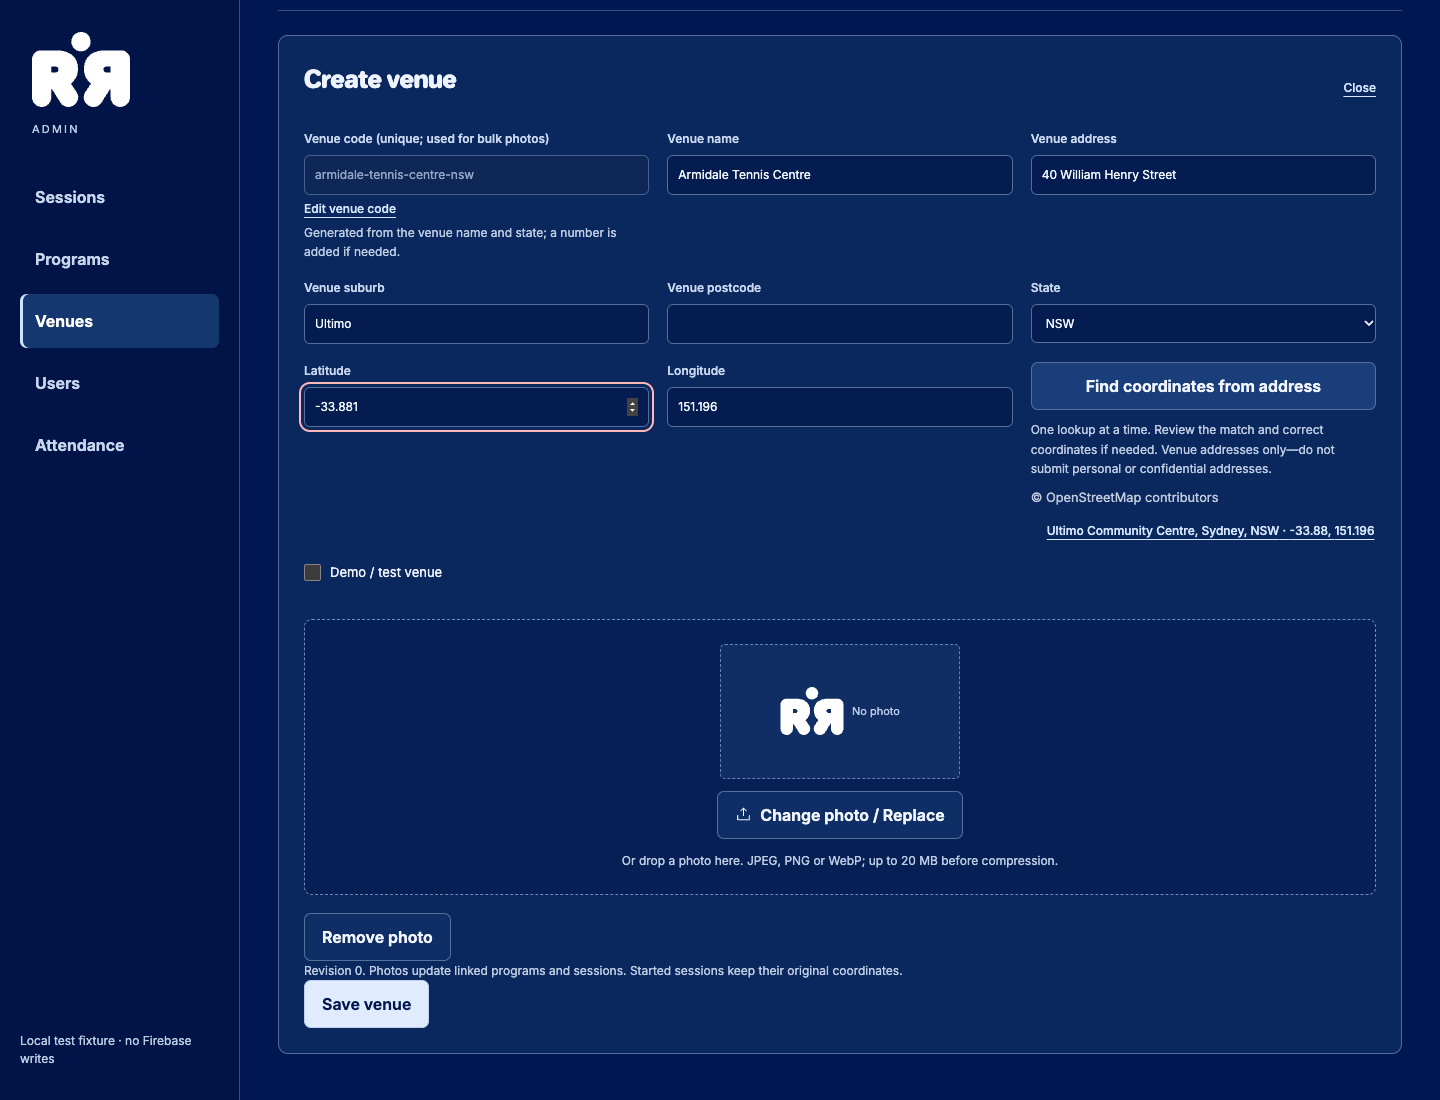
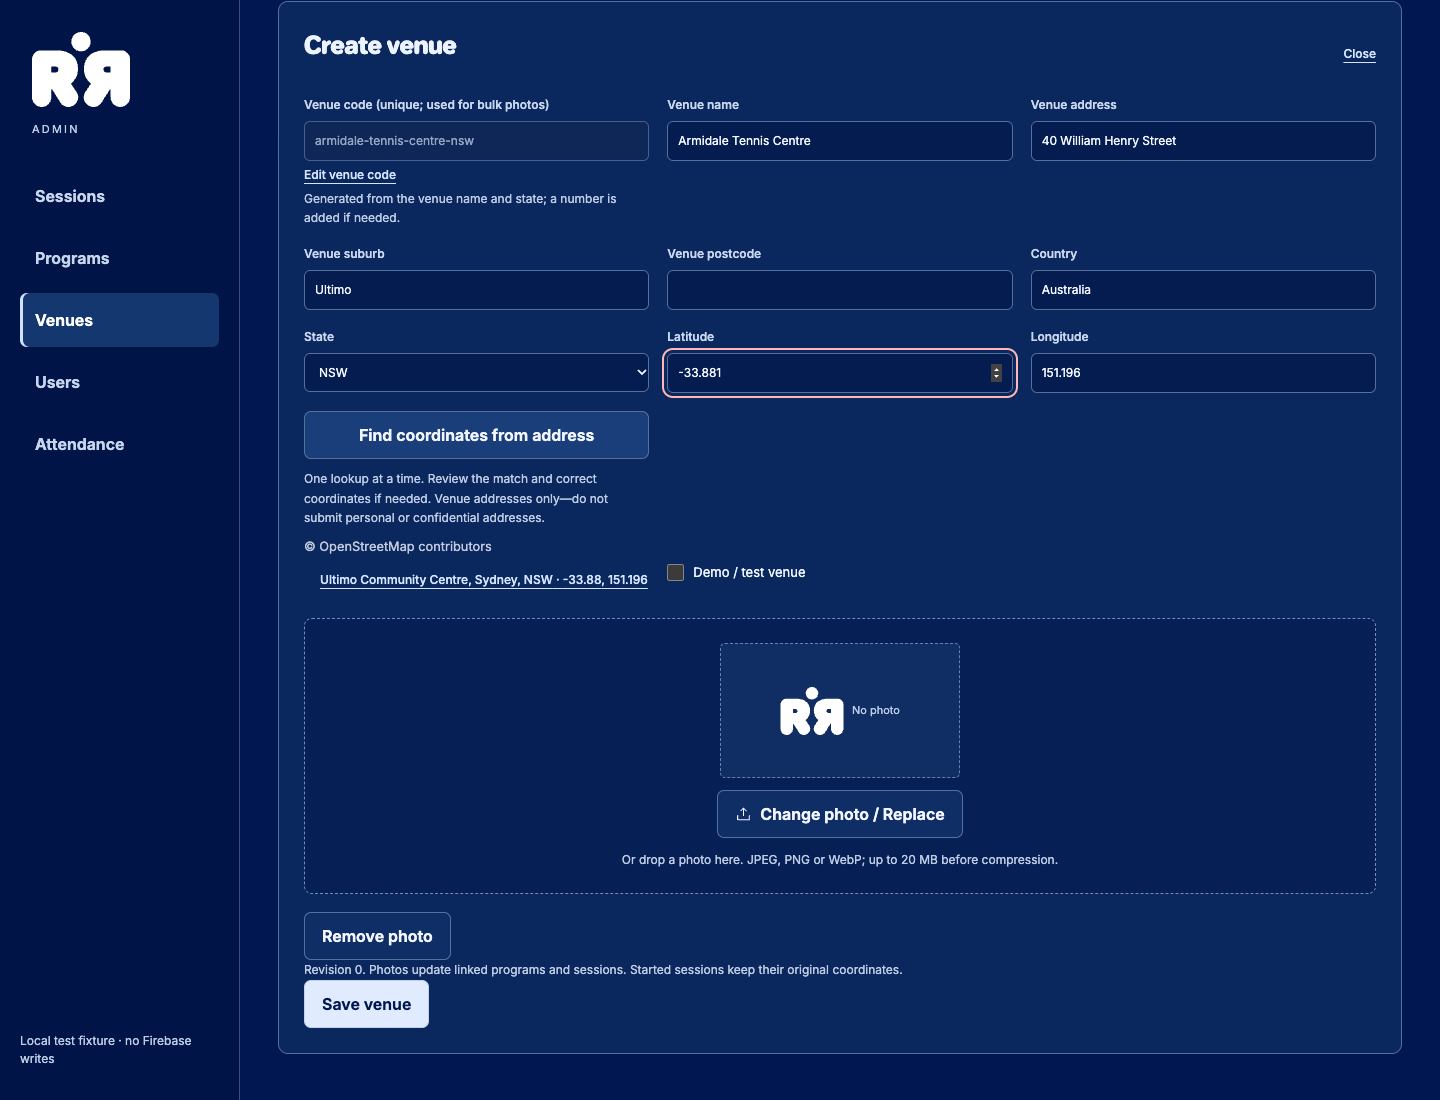
Allow international venues without an Australian state

diff --git a/web-admin/src/main.jsx b/web-admin/src/main.jsx
@@ -443,6 +443,7 @@ const blankVenue = {
   suburb: "",
   postcode: "",
   state: "NSW",
+  country: "Australia",
   lat: null,
   lng: null,
 };
@@ -791,6 +792,7 @@ function VenueFields({
                     "suburb",
                     "postcode",
                     "state",
+                    "country",
                     "lat",
                     "lng",
                     "photoUrl",
@@ -822,7 +824,17 @@ function VenueFields({
           required={["name", "suburb"].includes(k)}
         />
       ))}
-      <Select
+      <Field
+        label="Country"
+        value={value.country ?? "Australia"}
+        required
+        onChange={(e) => onChange({ ...value, country: e.target.value,
+          state: ["australia", "au", "aus"].includes(e.target.value.trim().toLowerCase()) ? value.state : "" })}
+      />
+      {!["australia", "au", "aus"].includes((value.country ?? "Australia").trim().toLowerCase()) ? (
+        <Field label="State / region (optional)" value={value.state ?? ""}
+          onChange={(e) => set("state", e.target.value)} />
+      ) : <Select
         label="State"
         error={errors["venue.state"]}
         value={value.state ?? ""}
@@ -838,7 +850,7 @@ function VenueFields({
           "VIC",
           "WA",
         ]}
-      />
+      />}
       {["lat", "lng"].map((k) => (
         <Field
           key={k}
@@ -2426,6 +2438,7 @@ const venueInput = (v) =>
       "suburb",
       "postcode",
       "state",
+      "country",
       "lat",
       "lng",
       "photoUrl",
@@ -2438,7 +2451,7 @@ const venueInput = (v) =>
           : Number(v[k])
         : k === "isDemo"
           ? !!v[k]
-          : (v[k] ?? ""),
+          : (v[k] ?? (k === "country" ? "Australia" : "")),
     ]),
   );
 function VenueEditor({ row, action, busy, onClose, venues = [], api = call }) {
@@ -2466,6 +2479,7 @@ function VenueEditor({ row, action, busy, onClose, venues = [], api = call }) {
         suburb: v.suburb?.trim() ?? "",
         postcode: v.postcode?.trim() ?? "",
         state: v.state?.trim() ?? "",
+        country: v.country?.trim() || "Australia",
       });
       setGeoResults(r.results);
       if (r.results.length === 1)
@@ -2561,7 +2575,7 @@ function VenueEditor({ row, action, busy, onClose, venues = [], api = call }) {
             type="button"
             secondary
             disabled={
-              geoBusy || !v.address?.trim() || !v.suburb?.trim() || !v.state
+              geoBusy || !v.address?.trim() || !v.suburb?.trim() || !(v.country ?? "Australia").trim()
             }
             onClick={geocode}
           >

diff --git a/functions/src/catalogue.ts b/functions/src/catalogue.ts
@@ -26,10 +26,12 @@ function photo(value: unknown): string {
   return result;
 }
 export function validateVenue(value: unknown) {
-  const v = input(value, ["name", "address", "suburb", "postcode", "state", "lat", "lng", "id", "code", "photoUrl"]);
+  const v = input(value, ["name", "address", "suburb", "postcode", "state", "country", "lat", "lng", "id", "code", "photoUrl"]);
+  const country = text(v.country ?? "Australia", "country", 100);
+  const australia = ["australia", "au", "aus"].includes(country.toLowerCase());
   if ((v.lat == null) !== (v.lng == null)) fail("invalid-argument","invalid-location","Supply both latitude and longitude");
-  return {...(v.id?{id:id(v.id,'venueId')}:{}),...(v.code?{code:id(v.code,'venue code')}:{}),...(v.photoUrl?{photoUrl:photo(v.photoUrl)}:{}),name:text(v.name,"venue name",200), address:text(v.address??"","address",500,0), suburb:text(v.suburb,"suburb",100),
-    postcode:text(v.postcode??"","postcode",10,0),state:choice(v.state,STATES,"state"),lat:v.lat==null?null:coordinate(v.lat,"lat"),lng:v.lng==null?null:coordinate(v.lng,"lng")};
+  return {...(v.country ? {country} : {}),...(v.id?{id:id(v.id,'venueId')}:{}),...(v.code?{code:id(v.code,'venue code')}:{}),...(v.photoUrl?{photoUrl:photo(v.photoUrl)}:{}),name:text(v.name,"venue name",200), address:text(v.address??"","address",500,0), suburb:text(v.suburb,"suburb",100),
+    postcode:text(v.postcode??"","postcode",10,0),state:australia?choice(v.state,STATES,"state"):text(v.state??"","state or region",100,0),lat:v.lat==null?null:coordinate(v.lat,"lat"),lng:v.lng==null?null:coordinate(v.lng,"lng")};
 }
 export function validateProgram(value: unknown) {
   const d = input(value, ["name", "sport", "status", "venue", "timezone", "scheduleText", "coachUids", "coachNames", "notes", "photoUrl", "capacity", "registrationStatus"]);

diff --git a/web-admin/test/browser/admin.spec.js b/web-admin/test/browser/admin.spec.js
@@ -464,3 +464,17 @@ test("session offers every spreadsheet status and operational cancellation does 
   expect(payload.operations.fields.status).toBe("Cancelled");
   expect(payload.changes.status).toBe("published");
 });
+
+test('international venue can be saved without selecting an Australian state', async ({ page }) => {
+  await open(page, 'Venues');
+  await page.getByLabel('Venue name', { exact: true }).fill('Wimbledon Park');
+  await page.getByLabel('Venue suburb').fill('London');
+  await page.getByLabel('Country', { exact: true }).fill('United Kingdom');
+  await expect(page.getByLabel('State / region (optional)')).toHaveValue('');
+  await expect(page.getByRole('combobox', { name: 'State', exact: true })).toHaveCount(0);
+  await page.getByLabel('Venue address').fill('Home Park Road');
+  await expect(page.getByRole('button', {name: 'Find coordinates from address', exact: true})).toBeEnabled();
+  await page.getByRole('button', { name: 'Save venue', exact: true }).click();
+  await expect.poll(() => page.evaluate(() => window.__calls.find(c => c.name === 'adminSaveVenue')?.data.venue.country)).toBe('United Kingdom');
+  expect(await page.evaluate(() => window.__calls.find(c => c.name === 'adminSaveVenue').data.venue.state)).toBe('');
+});

diff --git a/functions/src/admin_management.ts b/functions/src/admin_management.ts
@@ -522,14 +522,16 @@ export class AdminManagementService {
     };
   }
   async coordinates(who: Identity, value: unknown) {
-    const d = input(value, ["address", "suburb", "postcode", "state"]);
+    const d = input(value, ["address", "suburb", "postcode", "state", "country"]);
     await this.console.requireAdmin(who);
+    const country = text(d.country ?? "Australia", "country", 100),
+      australia = ["australia", "au", "aus"].includes(country.toLowerCase());
     const address = [
         text(d.address, "street address", 300, 3),
         text(d.suburb, "suburb", 100, 1),
-        text(d.state, "state", 10, 2),
+        text(d.state ?? "", "state", 100, australia ? 2 : 0),
         text(d.postcode ?? "", "postcode", 10, 0),
-        "Australia",
+        country,
       ]
         .filter(Boolean)
         .join(", "),
@@ -568,7 +570,7 @@ export class AdminManagementService {
       url.search = new URLSearchParams({
         q: address,
         format: "jsonv2",
-        countrycodes: "au",
+        ...(australia ? {countrycodes: "au"} : {}),
         limit: "5",
       }).toString();
       const response = await this.fetcher(url, {

diff --git a/functions/src/admin_console.ts b/functions/src/admin_console.ts
@@ -366,6 +366,7 @@ export class AdminConsoleService {
       "suburb",
       "postcode",
       "state",
+      "country",
       "lat",
       "lng",
       "photoUrl",
@@ -374,7 +375,7 @@ export class AdminConsoleService {
     const key = d.venueId ? id(d.venueId, "venueId") : randomUUID(),
       base = validateVenue(
         Object.fromEntries(
-          ["name", "address", "suburb", "postcode", "state", "lat", "lng"].map(
+          ["name", "address", "suburb", "postcode", "state", "country", "lat", "lng"].map(
             (k) => [k, v[k]],
           ),
         ),
